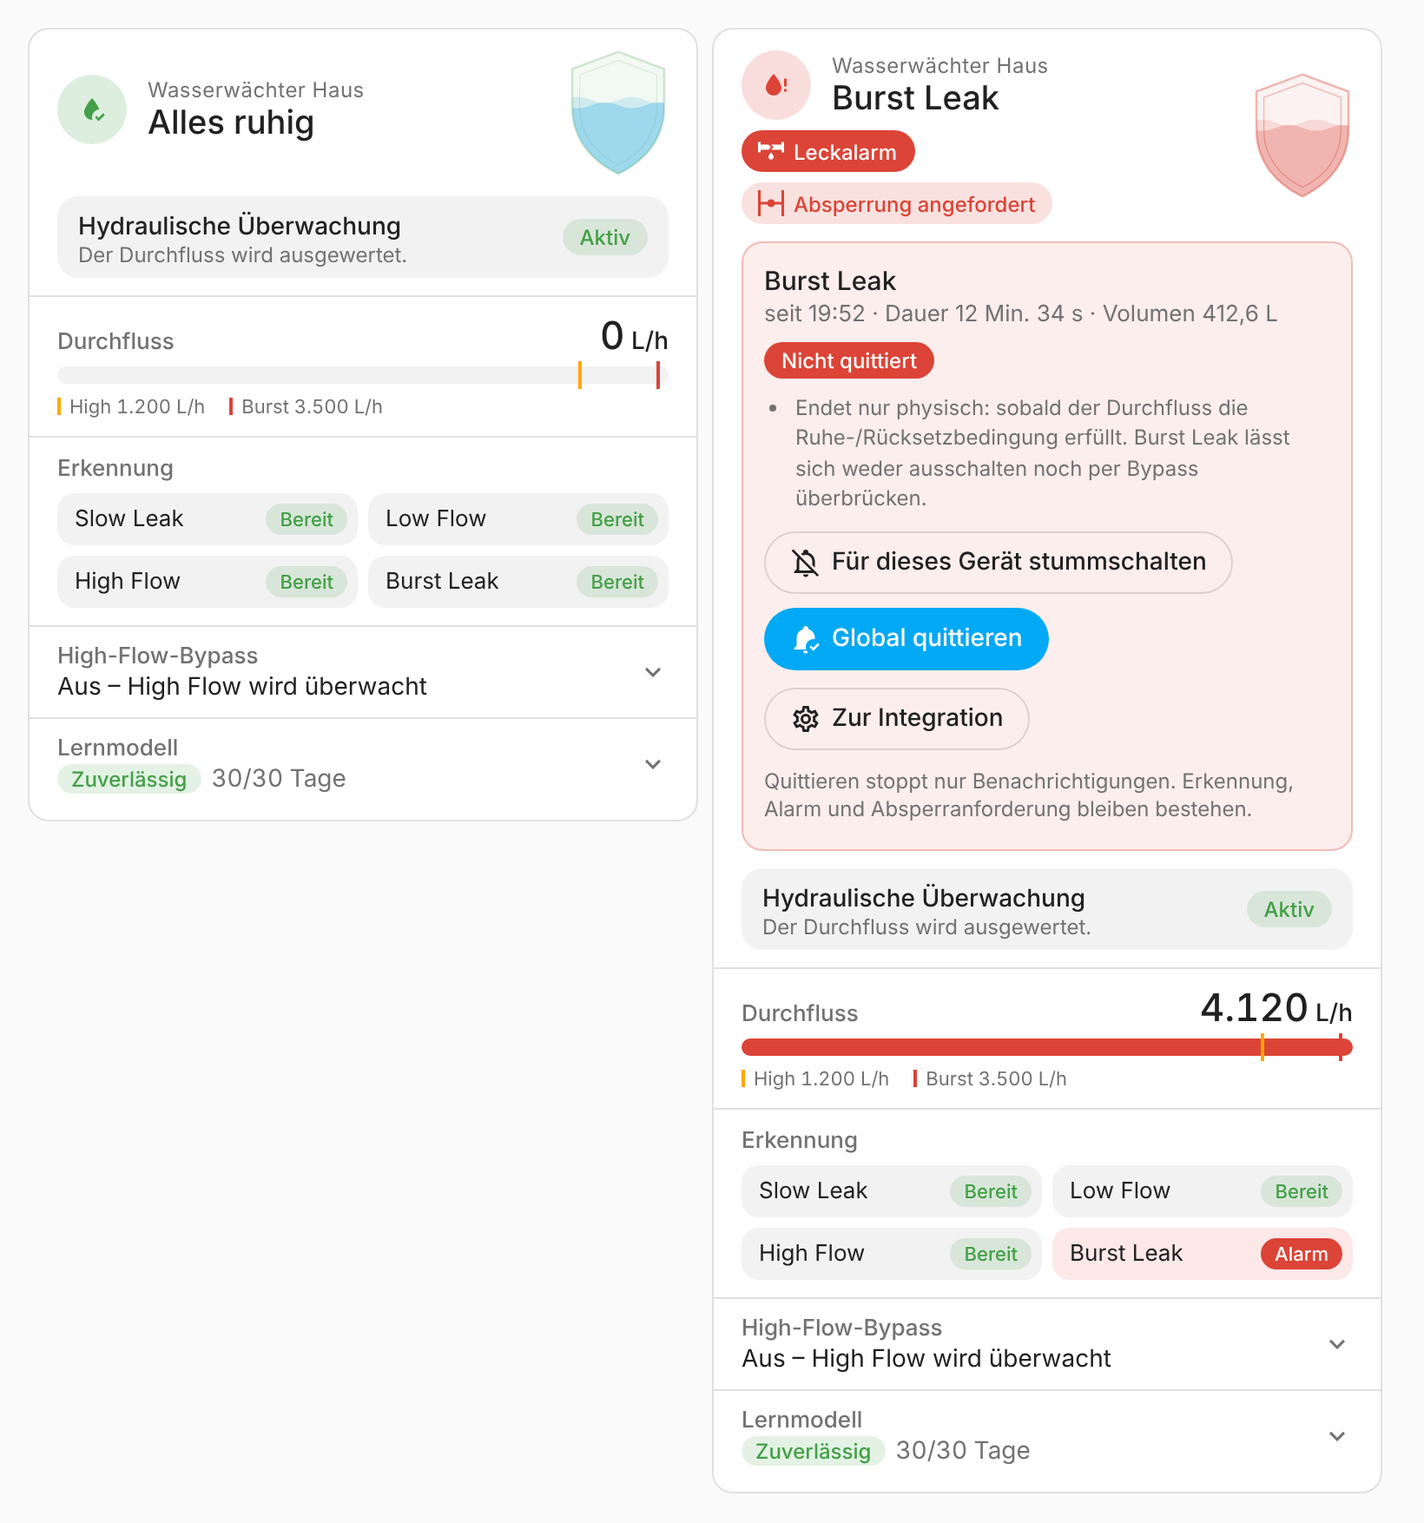
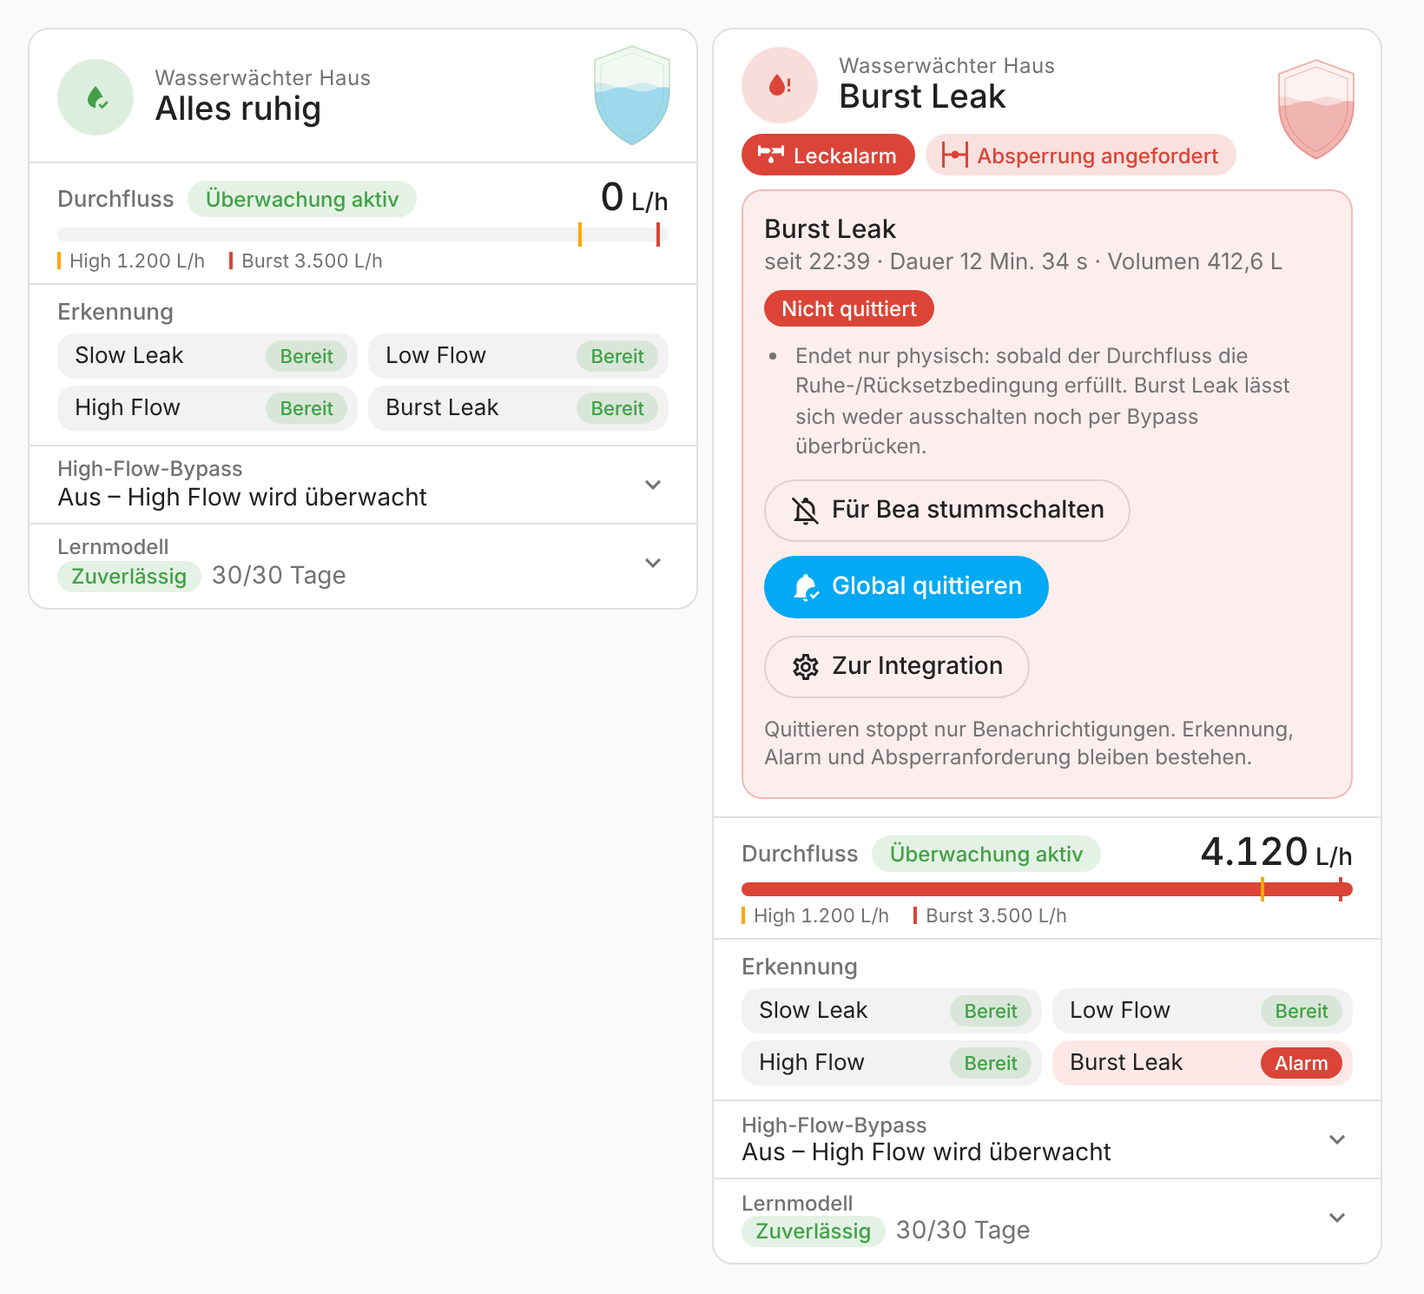
Docs: real HA column widths, panel example, mute naming; card size hint
- CARD.md, CHANGELOG, wiki: masonry/sections columns are at most ~500 px,
  so the card is single column there; two columns only in panel view or a
  full-width multi-column section. Heights stated as approximate.
- getCardSize 7 idle / 14 during an alarm; refreshed preview image.

Claude-Session: https://claude.ai/code/session_01Y2UY7btMMhreMmEurJ6oPj

diff --git a/custom_components/water_leak_detection/frontend/water-leak-guard-card.js b/custom_components/water_leak_detection/frontend/water-leak-guard-card.js
@@ -677,13 +677,13 @@ class WaterLeakGuardCard extends HTMLElement {
   }
 
   /**
-   * Masonry height hint in 50 px units. The idle card is about 8 units tall in
-   * one column (sections collapsed) and about 5 in two columns; an alarm adds
-   * the alarm box. Masonry only uses it to balance columns.
+   * Masonry height hint in 50 px units. The idle card is about 340 px (7 units)
+   * in one column with both sections collapsed; an alarm adds the alarm box
+   * (about 700 px). Masonry only uses it to balance columns.
    */
   getCardSize() {
     const alarm = this._hass && this._config ? this._alarmActive() : false;
-    return alarm ? 12 : 8;
+    return alarm ? 14 : 7;
   }
 
   /**

diff --git a/docs/CARD.md b/docs/CARD.md
@@ -32,31 +32,62 @@ Alle Bedienelemente rufen nur vorhandene, im Backend geprüfte Schalter, Dienste
 
 ## Layout und unterstützte Bildschirme (ab Karte 0.5.0)
 
-Die ruhige Karte (Überwachung aktiv, kein Alarm) passt auf einen Bildschirm:
+**Wie breit die Karte wird, bestimmt Home Assistant.** Spalten im Masonry-Layout und Abschnitte
+(Sections) sind höchstens ca. 500 px breit. Dort ist die Karte deshalb **immer einspaltig**, auch auf
+einem Tablet oder dem Raspberry-Pi-Display. Zwei Spalten gibt es nur, wenn die Karte selbst mindestens
+ca. 600 px breit ist: in der **Panel-Ansicht** oder in einer Sections-Ansicht mit einem Abschnitt über
+mehrere Spalten (`column_span` ≥ 2) und `grid_options: columns: full` an der Karte.
 
-| Gerät | Kartenbreite | Höhe der ruhigen Karte (0.4.1 → 0.5.0, gemessen in Chromium) |
-|---|---|---|
-| iPhone 17 Pro (402×874) | ca. 386 px, eine Spalte | 884 → 457 px |
-| schmales Telefon | 320 px, eine Spalte | 930 → 457 px |
-| iPad, Karte ca. 500 px | eine Spalte | 827 → 457 px |
-| iPad, Karte ca. 744 px | zwei Spalten | 810 → 244 px |
-| Raspberry Pi 7″ (800×480), eine Spalte, Seitenleiste aus | 768 px, zwei Spalten | 810 → 244 px |
-| Raspberry Pi 7″, zwei Masonry-Spalten | ca. 380 px | 884 → 457 px (passt nicht ganz unter die HA-Leiste, ca. 420 px) |
+Höhe der ruhigen Karte (Überwachung aktiv, kein Alarm, Standardkonfiguration), gemessen in Chromium mit
+simuliertem Home Assistant. Je nach Schrift weichen echte Geräte um **ca. ±15 px** ab.
+
+| Gerät / Ansicht | Kartenbreite | Spalten | 0.4.1 | 0.5.0 |
+|---|---|---|---|---|
+| schmales Telefon | 320 px | 1 | ca. 930 px | ca. 335 px |
+| iPhone 17 Pro (402×874) | ca. 386 px | 1 | ca. 884 px | ca. 335 px |
+| iPad / Raspberry Pi 7″ (800×480) in Masonry oder Sections | ca. 490–500 px | 1 | ca. 827 px | ca. 335 px |
+| Panel-Ansicht oder Abschnitt über ganze Breite (Tablet, Pi im Panel) | ≥ ca. 600 px (z. B. 744/768 px) | 2 | ca. 810 px | ca. 190 px |
+
+Mit einem externen Sensor kommen ca. 80 px hinzu (ca. 415 px), mit aktivem Bypass bei schmaler Karte
+ca. 12 px (zweizeilige Zusammenfassung). Auf dem alten 7″-Display (800×480, ca. 420 px unter der
+HA-Leiste von 56 px) passt die ruhige einspaltige Karte damit ohne Scrollen; aufgeklappte Abschnitte oder
+ein Alarm brauchen mehr Platz.
+
+Für ein Wanddisplay oder den Pi eignet sich eine eigene Ansicht im Panel-Modus (zwei Spalten):
+
+```yaml
+views:
+  - title: Wasser
+    path: wasser
+    type: panel
+    cards:
+      - type: custom:water-leak-guard-card
+        entity: sensor.wasserwachter_status
+```
 
 - **Einklappbar:** „High-Flow-Bypass“ und „Lernmodell“ zeigen eine Zusammenfassungszeile. Sie ist ein
-  echter Button mit `aria-expanded` und Pfeil, bedienbar per Klick, Enter und Leertaste. Beide
-  Abschnitte sind anfangs zu. Der Auf/Zu-Zustand gilt pro Karte und bleibt bei jeder Aktualisierung von
-  Home Assistant erhalten (nicht über ein Neuladen der Seite hinweg).
-- **Immer sichtbar:** flacher Kopf (ca. 96 px, kleines Schild rechts; Titel, Überschrift und Kennzeichen
-  laufen nie unter das Schild, Kennzeichen dürfen umbrechen), Alarmkasten bei Alarm, Hydraulische
-  Überwachung, Durchfluss, das 2×2-Raster der Detektoren und – wenn konfiguriert – die externen Sensoren.
-- **Zwei Spalten**, sobald die **Karte selbst** mindestens ca. 600 px breit ist (CSS Container Query auf
-  der Karte, nicht auf dem Fenster): links Kopf, Alarmkasten, Überwachung, Durchfluss; rechts
-  Erkennung, Bypass, externe Sensoren, Lernmodell. Schmaler: eine Spalte in derselben Reihenfolge.
+  echter Button mit `aria-expanded` und Pfeil (mindestens 44 px hoch), bedienbar per Klick, Enter und
+  Leertaste. Beide Abschnitte sind anfangs zu. Der Auf/Zu-Zustand gilt pro Karte und bleibt bei jeder
+  Aktualisierung von Home Assistant erhalten (nicht über ein Neuladen der Seite hinweg).
+- **Überwachung kompakt:** Ist die hydraulische Überwachung bestätigt aktiv und ist weder die Messquelle
+  gestört noch der Laufzeitspeicher beschädigt, ersetzt ein grüner Hinweis „Überwachung aktiv“ in der
+  Durchflusszeile die eigene Zeile (ohne Durchflussabschnitt steht er im Kopf). In jedem anderen Zustand
+  – warten auf Messung, gesperrt, nicht verfügbar, unbekannt, Quelle gestört, Speicher beschädigt –
+  erscheint die volle Zeile „Hydraulische Überwachung“ mit Grund und Details wie bisher. Grün bleibt
+  bestätigt aktiver Überwachung vorbehalten.
+- **Immer sichtbar:** flacher Kopf (ca. 76 px, kleines Schild rechts; Titel, Überschrift und Kennzeichen
+  laufen nie unter das Schild, Kennzeichen dürfen umbrechen), Alarmkasten bei Alarm, Durchfluss, das
+  2×2-Raster der Detektoren, die beiden Zusammenfassungszeilen und – wenn konfiguriert – die externen
+  Sensoren.
+- **Zwei Spalten** ab ca. 600 px Kartenbreite (CSS Container Query auf der Karte, nicht auf dem Fenster):
+  links Kopf, Alarmkasten, Überwachung, Durchfluss; rechts Erkennung, Bypass, externe Sensoren, Lernmodell.
+- **Mindestbreite 280 px:** Die Container Query macht die Breite der Karte unabhängig von ihrem Inhalt; in
+  einem Container, der sich nach dem Inhalt richtet, würde sie sonst auf 0 px zusammenfallen.
+- **Bedienflächen:** Buttons sind mindestens 36 px hoch, Zusammenfassungszeilen und das Status-Symbol
+  44 px; kleine Textlinks (Durchflusswert, Sensornamen) haben eine unsichtbare Trefferfläche von 44 px.
 - `getGridOptions()` bleibt `{ columns: 12, min_columns: 6, rows: "auto" }`: Bestehende Dashboards im
   Abschnitte-Layout behalten Breite und Platz, die Höhe folgt dem Inhalt. `getCardSize()` (nur für das
-  Masonry-Layout zum Verteilen der Spalten, Einheit 50 px) sinkt von 9 auf 8 ohne Alarm und liefert 12
-  bei Alarm, passend zur kompakten Höhe.
+  Masonry-Layout zum Verteilen der Spalten, Einheit 50 px) liefert 7 ohne und 14 mit Alarm.
 - Hell/dunkel über die Theme-Variablen von Home Assistant; bei `prefers-reduced-motion` keine Animationen.
 
 ## Keine Schalter in der Karte (ab 0.5.0)
@@ -159,7 +190,7 @@ Ausführen erneut; die Karte entscheidet nichts.
 
 | Aktion | Wirkung | Angezeigt, wenn | Gesperrt (mit Grund) |
 |---|---|---|---|
-| Für dieses Gerät stummschalten | stoppt Benachrichtigungen nur für dieses Gerät | gekoppelt, Ereignis nicht global quittiert, dieses Gerät noch nicht stumm (sonst: „Auf diesem Gerät stummgeschaltet“) | nie (auch unterwegs erlaubt) |
+| Für *Name* stummschalten | stoppt Benachrichtigungen nur für den gekoppelten Empfänger (*Name* aus der Session-Antwort `recipient_name`; ohne Namen „Für dieses Gerät stummschalten“). Wichtig bei Benutzer-Kopplung: Ein Laptop desselben Benutzers schaltet damit den Empfänger (z. B. das Telefon) stumm | gekoppelt, Ereignis nicht global quittiert, Empfänger noch nicht stumm (sonst: „Bei *Name* stummgeschaltet“) | nie (auch unterwegs erlaubt) |
 | Global quittieren | stoppt Benachrichtigungen für alle | gekoppelt, Berechtigung „globale Quittierung“, nicht global quittiert | nicht zuhause: „Nur zuhause möglich“ |
 | Externes Leck zurücksetzen | beendet den Alarm des externen Sensors und seinen Beitrag zur Absperranforderung; der Sensor wird erst wieder scharf, wenn er „trocken“ meldet. Rückfrage vor dem Senden | nur bei aktivem externem Ereignis ohne Identitätskonflikt, gekoppelt, Berechtigung „externer Reset“ | nicht zuhause: „Nur zuhause möglich“ |
 | Erkennung abschalten (Slow Leak/Low Flow) | schaltet den Detektor aus (`switch.turn_off`) und beendet damit seinen aktiven Alarm samt Beitrag zur Absperranforderung; die Ursache bleibt. Rückfrage vor dem Senden | aktiver Alarm dieses Detektors, gekoppelt, Detektor eingeschaltet | nicht zuhause: „Nur zuhause möglich“ |
@@ -270,10 +301,11 @@ Empfänger hinzufügen / bearbeiten** gibt es das optionale Feld **Kopplung für
 Wahl stehen:
 
 - „—“: nicht gekoppelt,
-- **„Benutzer: Name“** (Standard, steht oben): jede normale App-/Browser-Anmeldung dieses HA-Benutzers.
+- **„👤 Name“** (Benutzer; Standard, steht oben): jede normale App-/Browser-Anmeldung dieses HA-Benutzers.
   Passt zum Modell „ein Gerät = immer ein Benutzer“ und übersteht Ab-/Anmelden, Neuinstallation der App
   und einen neuen Browser,
-- **„Anmeldung: Benutzer – App/Browser · zuletzt genutzt · IP“**: genau eine Anmeldung, wie bisher.
+- **„🔑 Benutzer – App/Browser · zuletzt genutzt · IP“** (einzelne Anmeldung): genau eine Anmeldung, wie bisher.
+  Die Symbole sind sprachneutral, weil das Optionsformular die Sprache des Betrachters nicht kennt.
 
 Gespeichert wird entweder `session_user_id` oder `session_token_id` am Empfänger, nie beides. Beide sind
 keine Geheimnisse und erlauben allein keine Anmeldung. Bestehende Kopplungen an eine Anmeldung
@@ -292,12 +324,12 @@ keine Geheimnisse und erlauben allein keine Anmeldung. Bestehende Kopplungen an 
 Rechte des gekoppelten Empfängers. „Zuhause“ kommt aber immer vom Device Tracker **dieses Empfängers**
 (z. B. dem Telefon), nicht vom Laptop. Wer einem Benutzer auf mehreren Geräten verschiedene Rechte geben
 will (iPad zuhause darf global quittieren, Telefon unterwegs nur stummschalten), koppelt diese Geräte
-einzeln über „Anmeldung: …“; eine solche Kopplung hat Vorrang vor der Benutzer-Kopplung.
+einzeln über „🔑 …“; eine solche Kopplung hat Vorrang vor der Benutzer-Kopplung.
 
 - Das Feld ändert **keine** Alarmeinstellung: Benachrichtigungsdienst, Device Tracker, kritische
   Burst-Alarme, Berechtigungen und Action-Token bleiben genau wie konfiguriert. Speichern ohne Änderung des
-  Felds behält die bisherige Kopplung, auch wenn die Anmeldung inzwischen gelöscht ist (sie steht dann als
-  „(nicht mehr gültig)“ in der Liste und wirkt nicht).
+  Felds behält die bisherige Kopplung, auch wenn die Anmeldung inzwischen gelöscht ist (sie steht dann mit
+  „⚠“ in der Liste und wirkt nicht).
 - Ein Benutzer kann nur mit **einem** Empfänger gekoppelt sein, eine Anmeldung ebenso
   (`session_user_already_paired`, `session_already_paired`). Ein inzwischen gelöschter oder deaktivierter
   Benutzer wird abgelehnt (`session_user_not_found`), eine gelöschte Anmeldung ebenso (`session_not_found`).

diff --git a/docs/wiki/Dashboard-Karte.md b/docs/wiki/Dashboard-Karte.md
@@ -52,10 +52,25 @@ bypass_presets: [60, 120, 240]        # Minuten, 1–1440
 
 ## Layout
 
-Ab Karte 0.5.0 passt die ruhige Karte auf einen Bildschirm: iPhone (ca. 386 px Kartenbreite, ca. 460 px
-hoch), iPad und das alte 7″-Display des Raspberry Pi (800×480). Ist die **Karte selbst** mindestens ca.
-600 px breit, zeigt sie zwei Spalten (links Kopf, Alarm, Überwachung, Durchfluss; rechts Erkennung,
-Bypass, externe Sensoren, Lernmodell), sonst eine. Hell/dunkel und „Bewegung reduzieren“ werden beachtet.
+Ab Karte 0.5.0 ist die ruhige Karte einspaltig nur noch ca. 335 px hoch (gemessen, je nach Schrift
+ca. ±15 px). Spalten im Masonry-Layout und Abschnitte sind in Home Assistant höchstens ca. 500 px breit;
+dort – auch auf iPad und dem alten 7″-Display des Raspberry Pi (800×480) – ist die Karte einspaltig und
+passt unter die HA-Leiste. Zwei Spalten (links Kopf, Alarm, Überwachung, Durchfluss; rechts Erkennung,
+Bypass, externe Sensoren, Lernmodell) zeigt sie nur, wenn sie selbst mindestens ca. 600 px breit ist: in
+der Panel-Ansicht oder in einem Abschnitt über mehrere Spalten (`column_span` ≥ 2) mit
+`grid_options: columns: full`. Beispiel für ein Wanddisplay:
+
+```yaml
+views:
+  - title: Wasser
+    type: panel
+    cards:
+      - type: custom:water-leak-guard-card
+```
+
+Ist die Überwachung bestätigt aktiv, zeigt ein grüner Hinweis „Überwachung aktiv“ in der Durchflusszeile
+das an; in jedem anderen Zustand erscheint die volle Zeile mit Grund. Der Stummschalt-Knopf nennt den
+gekoppelten Empfänger („Für Bea stummschalten“). Hell/dunkel und „Bewegung reduzieren“ werden beachtet.
 
 ## Bedienung mit Rückfrage
 
@@ -73,10 +88,10 @@ Entitäten und Dienste selbst bleiben in Home Assistant unbeschränkt.
 Rechte hängen am **Empfänger**. Gekoppelt wird beim passenden Benachrichtigungsempfänger:
 *Konfigurieren → Benachrichtigungsempfänger → Empfänger bearbeiten → Kopplung für die Dashboard-Karte*.
 
-- **„Benutzer: Name“** (Standard): jede App-/Browser-Anmeldung dieses HA-Benutzers. Bleibt bei
+- **„👤 Name“** (Benutzer, Standard): jede App-/Browser-Anmeldung dieses HA-Benutzers. Bleibt bei
   Ab-/Anmelden und Neuinstallation erhalten. Auch ein Laptop-Browser dieses Benutzers bekommt dann die
   Rechte des Empfängers; „zuhause“ kommt aber immer vom Device Tracker des Empfängers.
-- **„Anmeldung: …“**: genau eine Anmeldung, z. B. wenn ein Benutzer auf iPad und Telefon verschiedene
+- **„🔑 Name – App/Browser“**: genau eine Anmeldung, z. B. wenn ein Benutzer auf iPad und Telefon verschiedene
   Rechte haben soll. Eine gekoppelte Anmeldung hat Vorrang vor der Benutzer-Kopplung.
 
 Ein Benutzer und eine Anmeldung gehören jeweils zu höchstens einem Empfänger; die übrigen Einstellungen
@@ -85,7 +100,7 @@ des Empfängers ändern sich dadurch nicht. Bestehende Kopplungen an eine Anmeld
 | Gerät | Angebotene Aktionen |
 |---|---|
 | nicht gekoppelt (z. B. Desktop-Browser) | keine, Hinweis „nur Anzeige“ |
-| gekoppelt, unterwegs | Für dieses Gerät stummschalten; „Global quittieren“ gesperrt („Nur zuhause möglich“) |
+| gekoppelt, unterwegs | Für *Empfänger* stummschalten (z. B. „Für Bea stummschalten“); „Global quittieren“ gesperrt („Nur zuhause möglich“) |
 | gekoppelt, unterwegs, Alarm Slow/Low/High | zusätzlich „Erkennung abschalten“ bzw. „Bypass starten“ gesperrt („Nur zuhause möglich“) |
 | gekoppelt, zuhause, mit Berechtigung | Stummschalten, Global quittieren, bei externem Leck „Zurücksetzen“, bei Slow/Low „Erkennung abschalten“, bei High „Bypass starten“ – jeweils mit Rückfrage, wo ein Alarm endet |
 

diff --git a/CHANGELOG.md b/CHANGELOG.md
@@ -2,10 +2,15 @@
 
 ## Unreleased
 
-- Dashboard card 0.5.0 – compact, collapsible, responsive layout. The idle card now fits on one screen:
-  386 px card width 884 → 457 px high, 320 px 930 → 457 px, a 744/768 px card (iPad, Raspberry Pi 7″
-  800×480) 810 → 244 px in two columns. Flatter header (about 96 px) with a smaller shield that text
-  never overlaps; detectors as a 2×2 status grid; "High Flow bypass" and "Learning" are collapsible
+- Dashboard card 0.5.0 – compact, collapsible, responsive layout. The idle single-column card
+  (320–500 px wide, i.e. every masonry or sections column, which Home Assistant caps at about 500 px,
+  including an iPad or a Raspberry Pi 7″ 800×480 display) shrinks from about 830–930 px to about 335 px
+  (measured in Chromium, ±15 px depending on fonts); it fits under the HA toolbar on the 800×480 display.
+  Two columns (about 190 px high) only when the card itself is at least about 600 px wide: panel view, or
+  a sections view with `column_span` ≥ 2 and `grid_options: columns: full`. While monitoring is
+  confirmed active, a compact "Monitoring active" pill replaces the monitoring row; every other state
+  keeps the full row. Flatter header (about 76 px) with a smaller shield that text never overlaps;
+  detectors as a 2×2 status grid; "High Flow bypass" and "Learning" are collapsible
   (summary row is a button with `aria-expanded`, collapsed by default, state kept per card across
   updates); the four learning values sit in one row. Two columns once the card itself is about 600 px
   wide (CSS container query). The alarm box comes right after the header. An insufficient learning
@@ -15,8 +20,14 @@
   confirmation and `switch.turn_off` call). This and "Start bypass" during a High Flow alarm end the
   alarm and are therefore offered only to a paired device at home, like the external reset;
   away they are shown disabled ("Only possible at home"). HA entities and services stay unrestricted.
-  The detector switches are never linked or opened from the card. `getCardSize()` 9 → 8 (12 during an
-  alarm); `getGridOptions()` unchanged.
+  The detector switches are never linked or opened from the card. `getCardSize()` 9 → 7 (14 during an
+  alarm); `getGridOptions()` unchanged. Minimum card width 280 px (the container query would otherwise
+  let the card collapse in a content-sized container).
+- Card: the mute button names the paired recipient ("Mute for Bea" / "Für Bea stummschalten", from the
+  session's `recipient_name`, escaped; old text without a name), because with a user pairing a laptop
+  mutes the paired phone's recipient.
+- Card logic tests in plain Node without npm packages (`tests/card/card_logic.test.mjs`), run by the
+  Validate workflow.
 - Recipients can be paired with a Home Assistant **user** (new default, `session_user_id`, every normal
   login of that user, survives a new login) or, as before, with a single **login**
   (`session_token_id`). A login pairing wins over a user pairing. Existing login pairings keep working
@@ -24,7 +35,8 @@
   be paired with one recipient only (new errors `session_user_already_paired`,
   `session_user_not_found`). Mute, acknowledgement, the Home check (paired recipient's tracker) and the
   external reset are unchanged. The options form field is now `session_pairing` with values
-  `user:<id>` / `token:<id>`.
+  `user:<id>` / `token:<id>`; the choices are labelled language-neutrally "👤 name" (user) and
+  "🔑 name – client · last used" (login).
 - New preview image `docs/assets/card-preview.png` (iPhone idle and Burst Leak alarm).
 
 ## 2.0.0-beta.1 — 2026-10-14

diff --git a/docs/CONFIGURATION.md b/docs/CONFIGURATION.md
@@ -154,10 +154,10 @@ Each recipient is configured independently with:
 The field **Pairing for the dashboard card** offers:
 
 - "—": not paired,
-- **"User: name"** (listed first, the default kind of pairing): every normal app/browser login of
+- **"👤 name"** (user; listed first, the default kind of pairing): every normal app/browser login of
   that active, non-system Home Assistant user. It survives logging out and in, reinstalling the app
   and a new browser ("one device = always one user"). Stored as `session_user_id`.
-- **"Login: user – app/browser · last used · IP"**: exactly one login, as before. Stored as
+- **"🔑 user – app/browser · last used · IP"** (login): exactly one login, as before. Stored as
   `session_token_id`. Existing login pairings keep working without migration.
 
 A recipient stores one of the two, never both. For a dashboard connection the backend accepts only a
@@ -174,7 +174,9 @@ The paired device may mute this recipient anywhere; global acknowledgement and e
 permissions above and the recipient's tracker at `home`. The backend checks this on every action; the
 card is not an authorization. A user and a login can each belong to one recipient only (errors "user
 already paired" / "login already paired"); a deleted or deactivated user, or a deleted login, is
-rejected. Saving the form without changing the field keeps the existing pairing. Choosing "—" removes
+rejected. Saving the form without changing the field keeps the existing pairing (shown with "⚠"
+when it is no longer valid). The symbols are language-neutral because the options form cannot know the
+viewer's language. Choosing "—" removes
 it. Pairing never changes any other recipient setting. Details: [dashboard card](CARD.md).
 
 ### Personal mute

diff --git a/docs/wiki/Installation-und-Konfiguration.md b/docs/wiki/Installation-und-Konfiguration.md
@@ -207,9 +207,9 @@ entfernen.
 
 Für Alarmaktionen in der Karte beim Empfänger des jeweiligen Geräts die Kopplung wählen:
 *Konfigurieren → Benachrichtigungsempfänger → Empfänger bearbeiten → Kopplung für die Dashboard-Karte*.
-Standard ist **„Benutzer: Name“** (jede App-/Browser-Anmeldung dieses HA-Benutzers, übersteht eine
+Standard ist **„👤 Name“** (Benutzer) (jede App-/Browser-Anmeldung dieses HA-Benutzers, übersteht eine
 Neuanmeldung; auch ein Laptop-Browser dieses Benutzers erhält die Rechte, „zuhause“ kommt vom Tracker
-des Empfängers). **„Anmeldung: …“** koppelt genau eine Anmeldung und hat Vorrang, z. B. für ein iPad mit
+des Empfängers). **„🔑 Name – App/Browser“** koppelt genau eine Anmeldung und hat Vorrang, z. B. für ein iPad mit
 anderen Rechten als das Telefon desselben Benutzers. Das Feld ändert keine andere Einstellung des
 Empfängers; bestehende Kopplungen an eine Anmeldung gelten weiter.
 Der Beta-Umfang bleibt ohne externe Lecksensoren.
